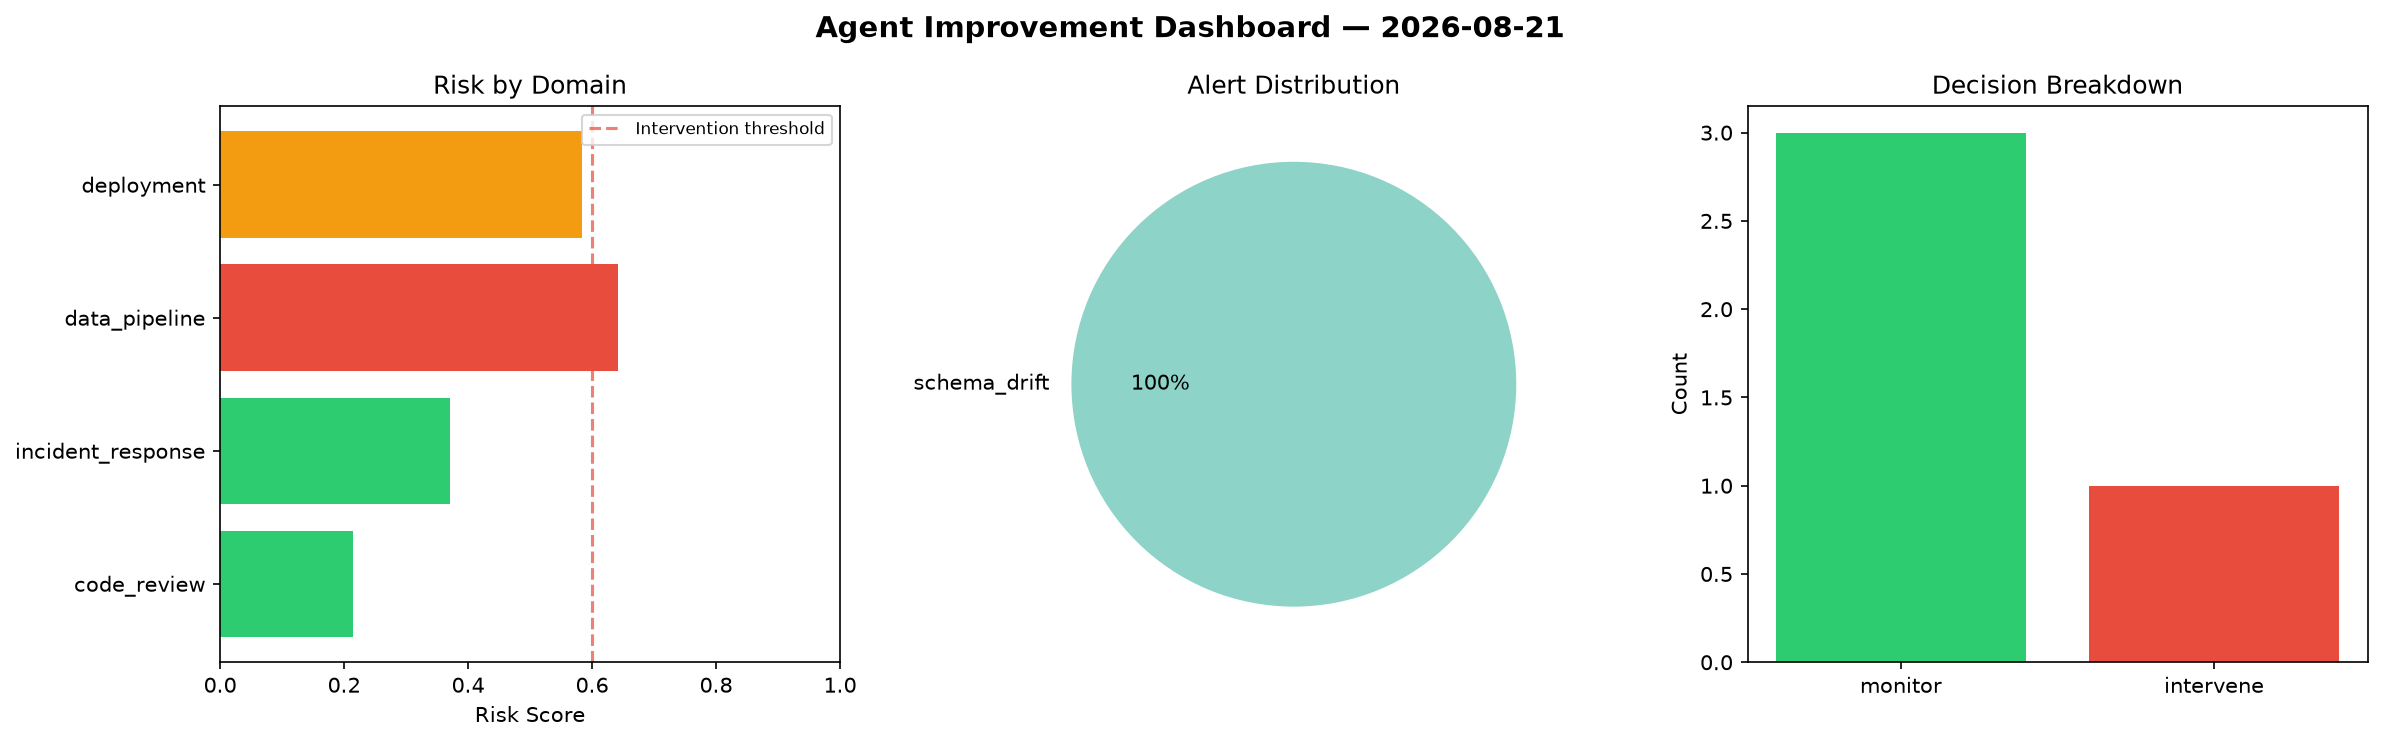
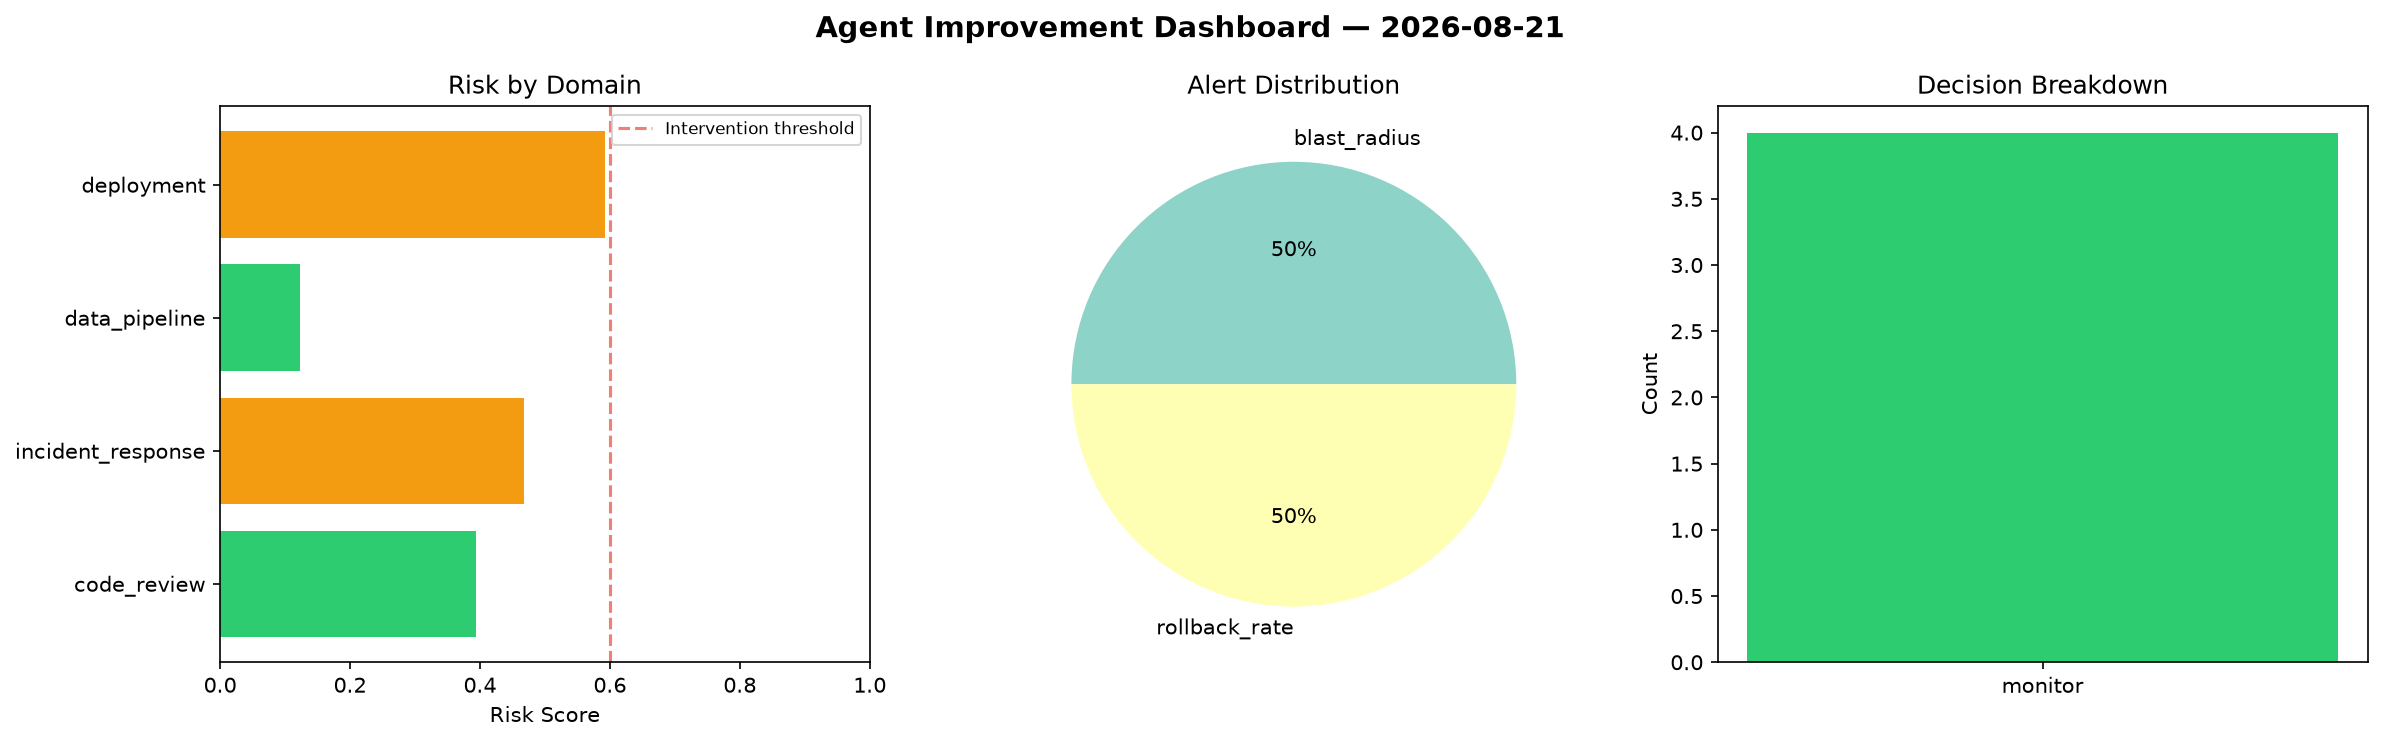
agent-improvement: daily cycle 2026-08-21T08:57

diff --git a/logs/2026-08-21.md b/logs/2026-08-21.md
@@ -1,6 +1,6 @@
 # Agent Improvement Report — 2026-08-21
 
-**Cycle ID:** `97421d52` | **Avg Risk:** 0.4525 | **Interventions:** 1/4
+**Cycle ID:** `2022784c` | **Avg Risk:** 0.3944 | **Interventions:** 0/4
 
 ![Dashboard](2026-08-21_dashboard.png)
 
@@ -10,18 +10,18 @@
 
 | Domain | Risk Score | Decision | Alerts |
 |--------|-----------|----------|--------|
-| code_review | 0.2143 | monitor | none |
-| incident_response | 0.3704 | monitor | none |
-| data_pipeline | 0.6424 | intervene | schema_drift |
-| deployment | 0.583 | monitor | none |
+| code_review | 0.3938 | monitor | none |
+| incident_response | 0.4681 | monitor | blast_radius |
+| data_pipeline | 0.1231 | monitor | none |
+| deployment | 0.5928 | monitor | rollback_rate |
 
 ## Delta vs Yesterday
 
 | Domain | Today | Yesterday | Change |
 |--------|-------|-----------|--------|
-| code_review | 0.2143 | 0.4187 | 📉 -48.8% |
-| incident_response | 0.3704 | 0.6472 | 📉 -42.8% |
-| data_pipeline | 0.6424 | 0.5349 | 📈 20.1% |
-| deployment | 0.583 | 0.2208 | 📈 164.0% |
+| code_review | 0.3938 | 0.4187 | 📉 -5.9% |
+| incident_response | 0.4681 | 0.6472 | 📉 -27.7% |
+| data_pipeline | 0.1231 | 0.5349 | 📉 -77.0% |
+| deployment | 0.5928 | 0.2208 | 📈 168.5% |
 
 **Refinement:** `{'adjustment': 'tighten_thresholds', 'trend': 'degrading', 'window': 4}`
